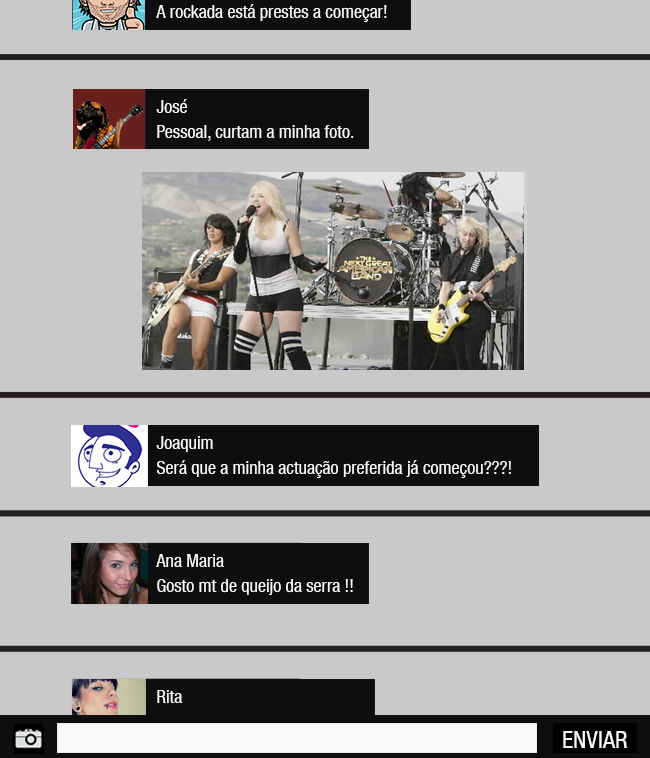
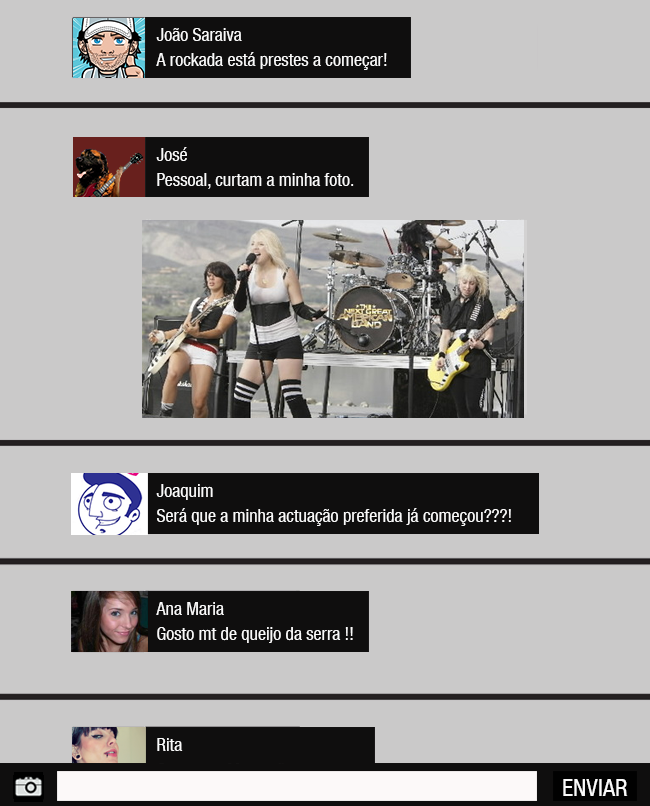
fwa

diff --git a/boilerplate.css b/boilerplate.css
@@ -336,8 +336,7 @@ td { vertical-align: top; }
 }
 .tablets .contentor .separadorInicio {
 	position: relative;
-	top: 18%;
-	padding-top:2%;
+	top: 20%;
 	width: 95px;
 	height: 20px;
 	background-color: #000;
@@ -352,7 +351,6 @@ td { vertical-align: top; }
 .tablets .contentor .separadorShoutInicio{
 	position: relative;
 	top: 18%;
-		padding-top:2%;
 	width: 65px;
 	height: 20px;
 	background-color: #000;
@@ -366,7 +364,6 @@ td { vertical-align: top; }
 
 .tablets .contentor .separadorShoutMapa{
 	position: relative;
-		padding-top:2%;
 	top: 16%;
 	width: 50px;
 	height: 20px;
@@ -381,7 +378,6 @@ td { vertical-align: top; }
 }
 .tablets .contentor .separadorMapa{
 	position: relative;
-		padding-top:2%;
 	top: 14%;
 	width: 55px;
 	height: 20px;
